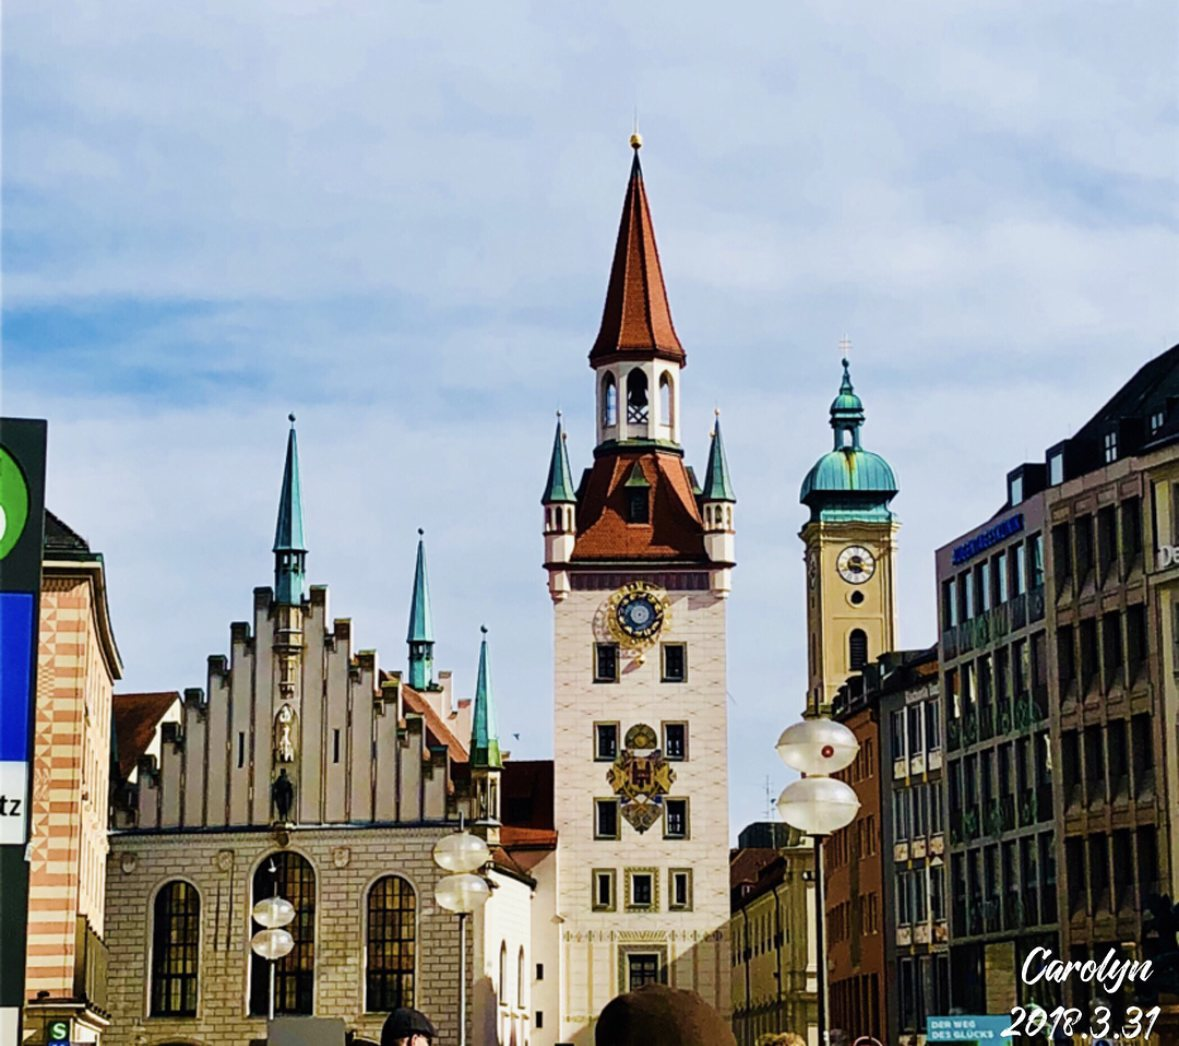
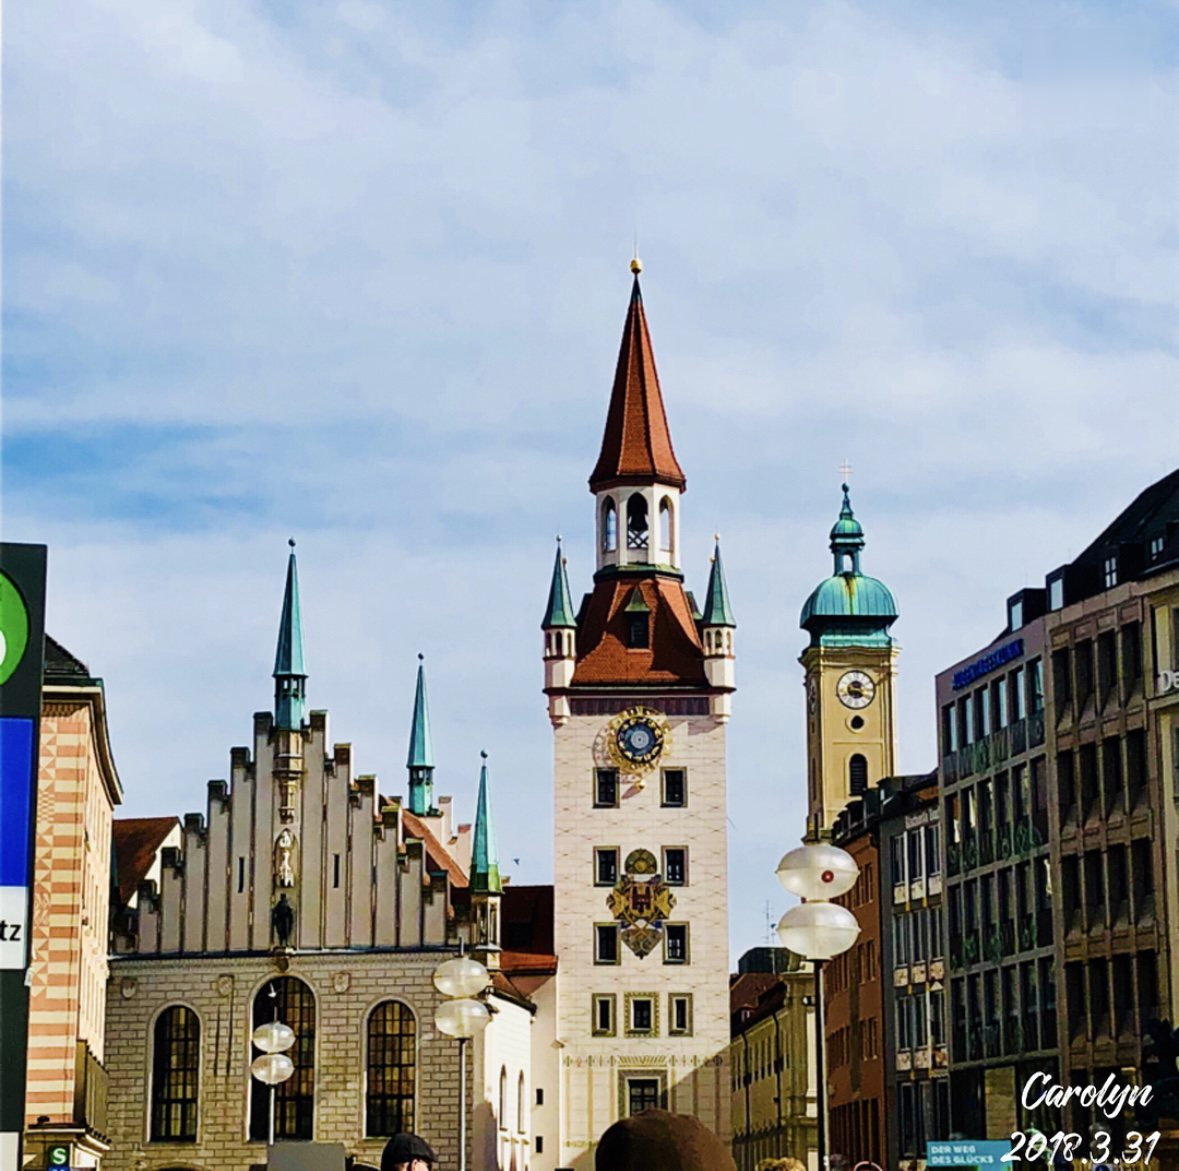
Hobbies: clock tower photo uncropped, page badge removed

diff --git a/content/hobbies.md b/content/hobbies.md
@@ -60,6 +60,6 @@ Discovering new places, food, and cultures, especially with my friends and famil
 
 ![On a boat with friends](/hobbies/travel-34.jpg "0.75") ![Hillside village of earthen houses](/hobbies/travel-37.jpg "1.496") ![Park temple at sunset](/hobbies/travel-40.jpg "0.75")
 
-![Propylaea at Königsplatz](/hobbies/travel-42.jpg "1.502") ![Old Town Hall tower](/hobbies/travel-43.jpg "1.127")
+![Propylaea at Königsplatz](/hobbies/travel-42.jpg "1.502") ![Old Town Hall tower](/hobbies/travel-43.jpg "1.007")
 
 ![Palace reflected in the water](/hobbies/travel-45.jpg "1.008") ![Santorini at night](/hobbies/travel-44.jpg "1.343")
